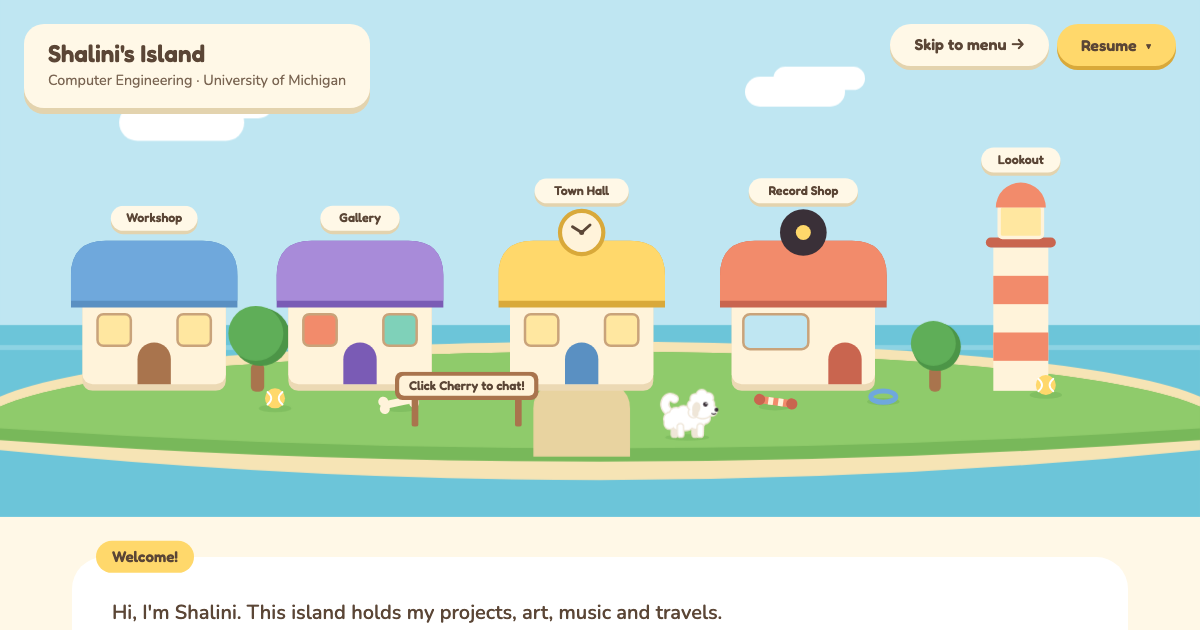
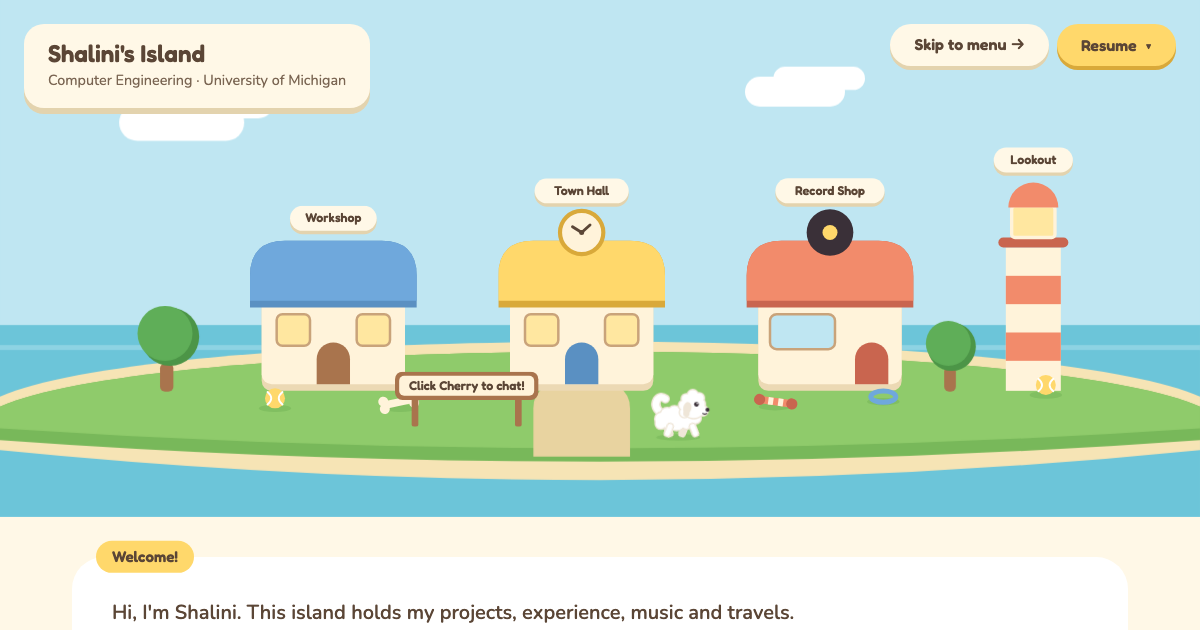
Remove the Gallery; add awards and certifications to the Town Hall
- Gallery building, menu card and placeholder page removed; island re-spaced to four buildings
- Welcome text, site description and share image updated without the Gallery
- Awards & certifications list (src/data/awards.ts), names and dates only

Changed region(s): [[0.5242, 0.2413, 0.8942, 0.6937], [0.0617, 0.3016, 0.37, 0.6333], [0.4317, 0.9651, 0.6783, 0.9952]]

diff --git a/src/data/places.ts b/src/data/places.ts
@@ -4,7 +4,7 @@
  * pages, so a name or description only ever changes here.
  */
 export interface Place {
-  id: 'workshop' | 'gallery' | 'experience' | 'record-shop' | 'lookout';
+  id: 'workshop' | 'experience' | 'record-shop' | 'lookout';
   name: string;
   line: string;      // what the speech bubble says
   menuLine: string;  // shorter text for the "Where to?" card
@@ -26,26 +26,12 @@ export const places: Place[] = [
     name: 'Workshop',
     line: 'Technical projects: embedded systems, hardware builds and ML work, each with a write-up, photos and code.',
     menuLine: 'Technical projects: embedded, hardware, ML.',
-    x: 185,
+    x: 400,
     kind: 'house',
     roof: 'var(--color-workshop)',
     roofDark: 'var(--color-workshop-dark)',
     accent: 'var(--color-workshop)',
     tint: 'var(--color-workshop-tint)',
-  },
-  {
-    id: 'gallery',
-    name: 'Gallery',
-    line: "Art I've made, from sketches to finished pieces.",
-    menuLine: "Art I've made.",
-    x: 432,
-    kind: 'house',
-    roof: 'var(--color-gallery)',
-    roofDark: 'var(--color-gallery-dark)',
-    accent: 'var(--color-gallery)',
-    tint: 'var(--color-gallery-tint)',
-    door: 'var(--color-gallery-dark)',
-    windows: ['var(--color-recordshop)', 'var(--color-lookout)'],
   },
   {
     id: 'experience',
@@ -67,7 +53,7 @@ export const places: Place[] = [
     name: 'Record Shop',
     line: "Albums I'm rating, what I'm listening to right now, and a short take on each.",
     menuLine: "Albums I'm rating and what I'm listening to.",
-    x: 964,
+    x: 996,
     kind: 'house',
     roof: 'var(--color-recordshop)',
     roofDark: 'var(--color-recordshop-dark)',
@@ -82,7 +68,7 @@ export const places: Place[] = [
     name: 'Lookout',
     line: "Photography and places I've been, pinned on a map.",
     menuLine: "Photography and places I've been, pinned on a map.",
-    x: 1225,
+    x: 1240,
     kind: 'lighthouse',
     roof: 'var(--color-recordshop)',
     roofDark: 'var(--color-recordshop-dark)',

diff --git a/src/data/awards.ts b/src/data/awards.ts
@@ -1,0 +1,12 @@
+/**
+ * Awards and certifications on the Town Hall (Experience) page.
+ * Names and dates only; credential IDs are left out on purpose.
+ */
+export const awards: { name: string; from: string; when: string }[] = [
+  { name: 'C++ Programming Fundamentals', from: 'Microsoft', when: 'Jun 2026' },
+  { name: 'Python and Data Certification', from: 'The Career Accelerator', when: 'May 2026' },
+  { name: 'AI Professional Skills Certification', from: 'The Career Accelerator', when: 'May 2026' },
+  { name: 'Top 10 of 300+', from: 'Procter & Gamble Early Talent Competition', when: 'Mar 2026' },
+  { name: 'Querying Data Certification', from: 'The Career Accelerator', when: 'Mar 2026' },
+  { name: "Dean's List", from: 'Wayne State University', when: 'Fall 2025' },
+];
